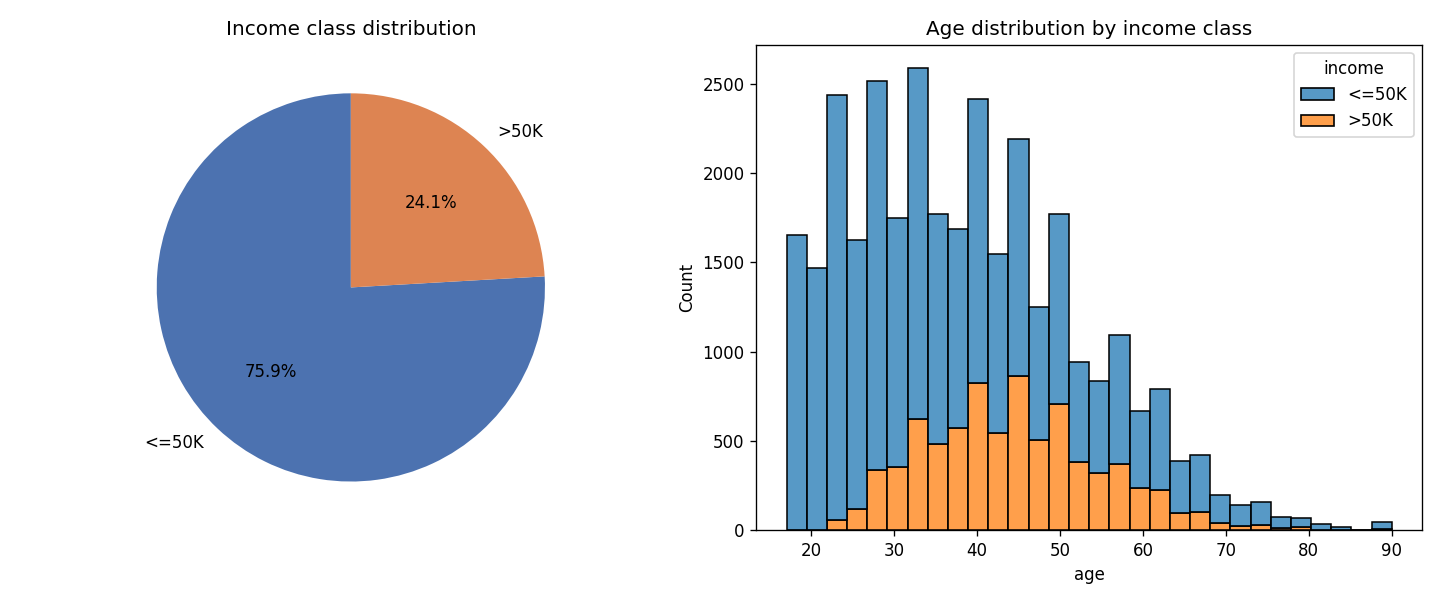
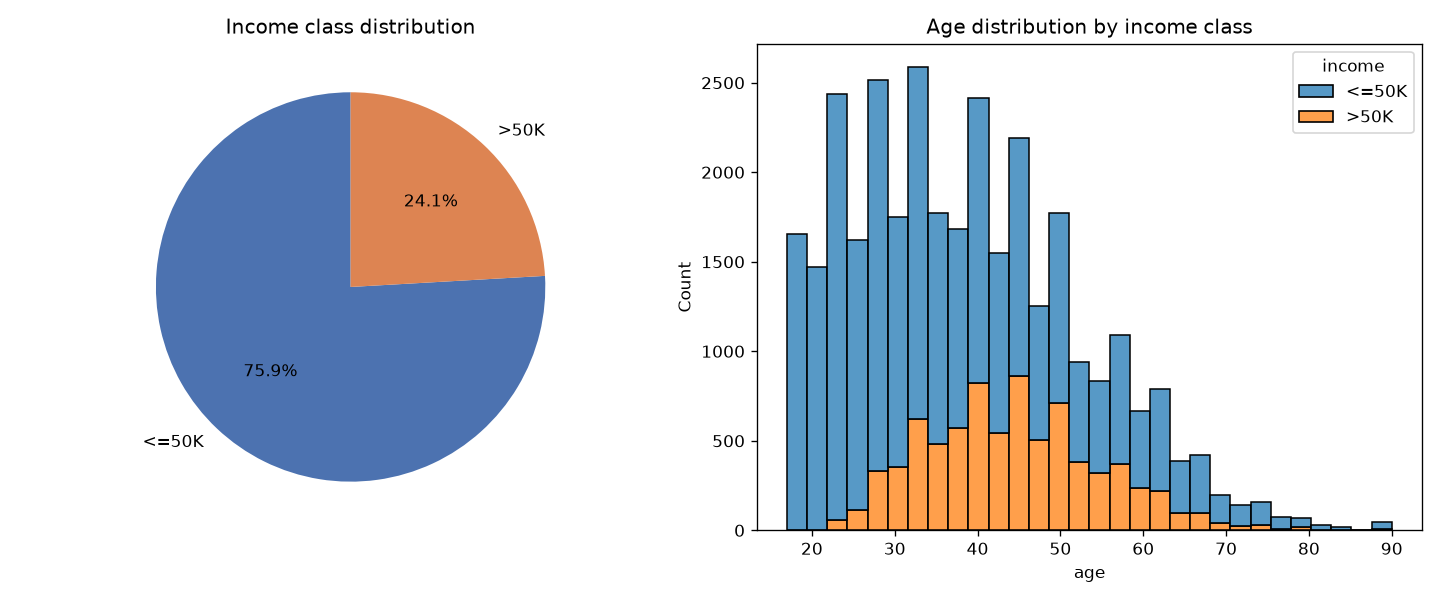
Docker: non-root user, mounted output folders, README section

diff --git a/README.md b/README.md
@@ -64,13 +64,7 @@ VS Code. It runs the same steps cell by cell with the intermediate tables and pl
 and its outputs are saved so it can be read without running it. The script in `src/` is the
 reference version that the tests and CI check.
 
-Inside Docker:
-
-```bash
-make docker-build
-make docker-run     # runs the analysis
-make docker-test    # runs the test suite
-```
+No Python on your machine? See [Docker](#docker) below.
 
 ## Steps
 
@@ -182,6 +176,42 @@ with Rust's ownership rules (immutable by default, one owner per value, borrow o
 never read and write at once), each built around a loop over hours worked per week.
 Cells marked *fails on purpose* keep their compiler error as output, and the next cell shows
 the fix. It needs the evcxr Rust kernel; outputs are saved so it can be read without one.
+
+## Docker
+
+The image packages Python 3.12, the dependencies and the code, so the analysis
+runs the same way on any machine with Docker and nothing else installed.
+
+```bash
+make docker-build   # docker build -t adult-income-analysis .
+make docker-run     # run the analysis; figures/ and data/ appear on your machine
+make docker-test    # run the test suite inside the image
+```
+
+`make docker-run` expands to:
+
+```bash
+docker run --rm --user $(id -u):$(id -g) \
+  -v "$PWD/data:/app/data" -v "$PWD/figures:/app/figures" adult-income-analysis
+```
+
+What I learned building it:
+
+* **A container's files disappear with it.** The first version wrote the plots inside the
+  container and `--rm` deleted them on exit. Mounting `figures/` and `data/` as volumes is what
+  makes the output usable, and it also caches the download between runs.
+* **Layer order is a cache strategy.** `requirements.txt` is copied and installed before the
+  source code, so editing `src/` rebuilds in seconds instead of reinstalling every package.
+* **Do not run as root.** The image creates an unprivileged `appuser`; `--user` on `docker run`
+  makes files written to the mounted folders belong to the host user.
+* **`.dockerignore` matters.** Notebooks, data, figures and `.git` stay out of the build
+  context, which keeps the build fast and the image small.
+* **CI builds the same image.** The `docker` job runs the tests inside it on every push, so the
+  Dockerfile cannot silently rot.
+
+<img src="figures/docker_build.png" alt="successful docker build" width="700">
+
+<img src="figures/docker_run.png" alt="analysis running in a container" width="700">
 
 ## Tests, linting and CI
 
